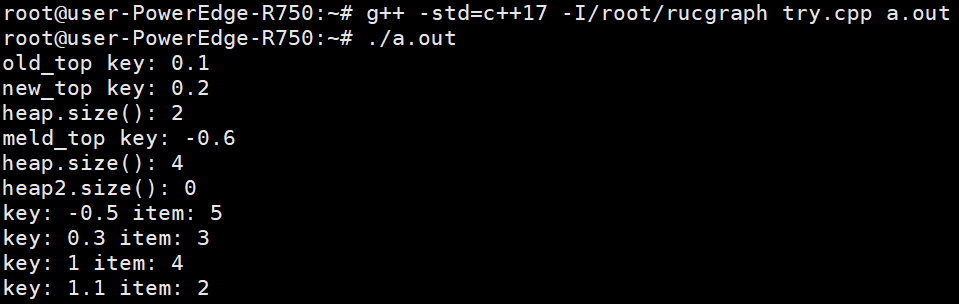
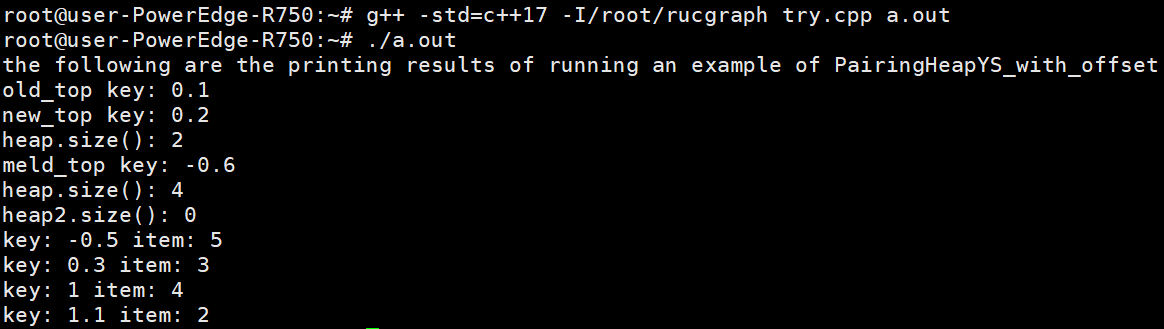
1

Changed region(s): [[0.0, 0.0, 0.9979, 1.0], [0.2117, 0.9178, 0.2419, 0.9474], [0.2117, 0.7697, 0.2419, 0.7993]]

diff --git a/data_structures/PairingHeapYS_with_offset.h b/data_structures/PairingHeapYS_with_offset.h
@@ -308,6 +308,8 @@ typedef PairingHeapYS_with_offset<double, int> PairingHeapType_example2; // defi
 
 void example_PairingHeapYS_with_offset() {
 
+	cout << "the following are the printing results of running an example of PairingHeapYS_with_offset" << endl;
+
 	std::vector<PairingHeapType_example2::ItemHandle> pairing_heap_buffer; // define handles/pointers for items in heap
 	PairingHeapType_example2 heap; // define heap with handles
 
